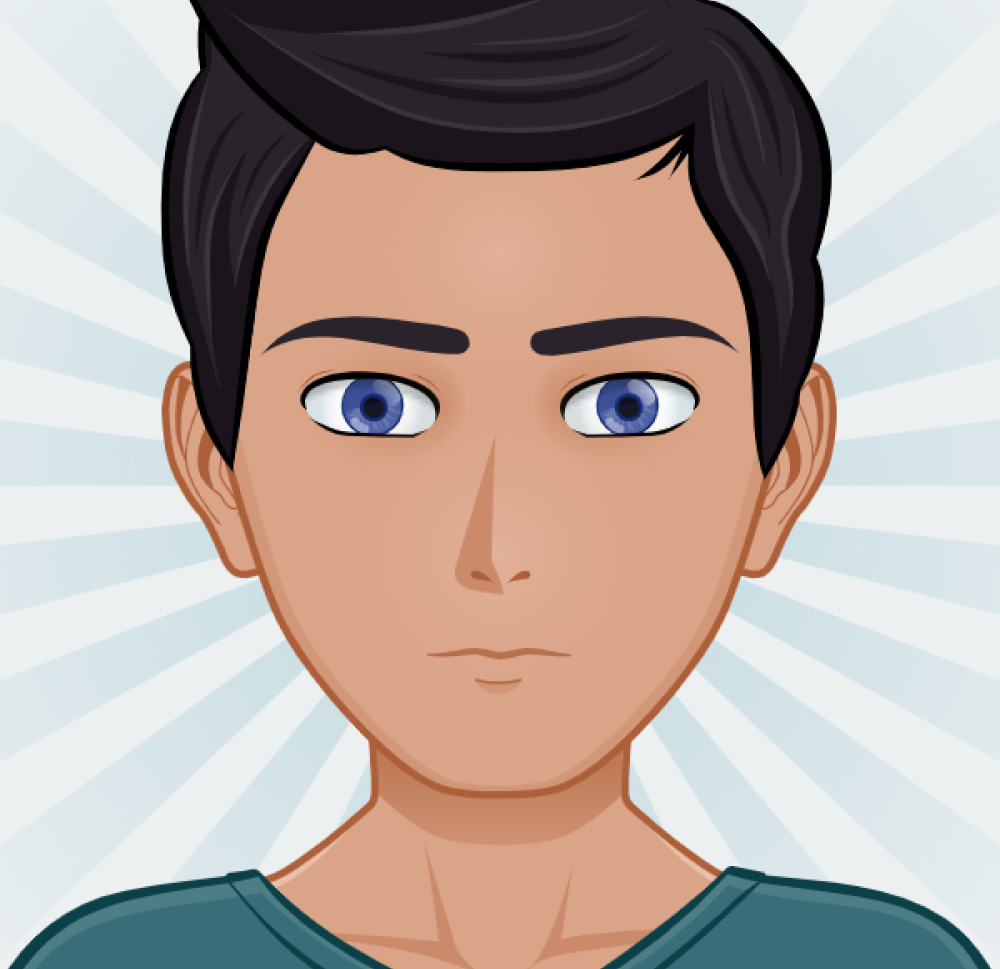
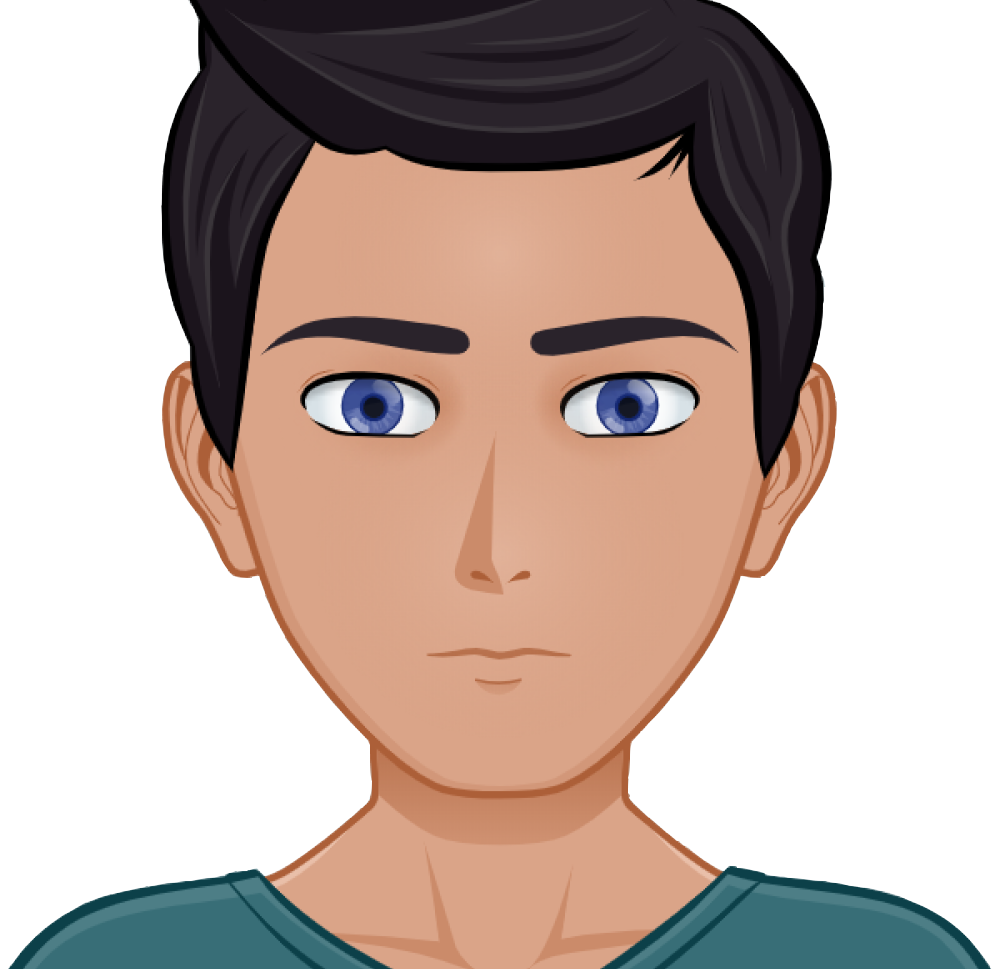
updated profile image and added contruction pages

diff --git a/pages/about.jsx b/pages/about.jsx
@@ -1,15 +1,14 @@
 // Style
-import style from '../../styles/underContruction.module.css'
+import style from '../styles/underContruction.module.css'
 
 
 // Assets
-import underContructionImage from '../../public/underConstructionImage.png'
+import underContructionImage from '../public/underConstructionImage.png'
 
 // Modules
 import Image from 'next/image'
 
-// Hook
-const index = () => {
+const about = () => {
   return (
     <div className={style.underContructionContainer} >
       <Image src={underContructionImage} height={400} objectFit='contain' />
@@ -17,4 +16,4 @@ const index = () => {
   )
 }
 
-export default index
+export default about

diff --git a/components/PortfolioHead.jsx b/components/PortfolioHead.jsx
@@ -22,7 +22,7 @@ const PortfolioHead = () => {
         </p>
       </div>
       <div className='image'>
-        <Image src={cartoonMe} height={600} width={600} quality={30} objectFit='contain' alt='fred as a cartoon'/>
+        <Image src={cartoonMe} height={500} quality={30} objectFit='contain' alt='fred as a cartoon'/>
       </div>
     </div>
   )

diff --git a/components/ProjectCard.jsx b/components/ProjectCard.jsx
@@ -42,7 +42,7 @@ const ProjectCard = ({projectInfo}) => {
         <button>
           <Link href={`/portfolio/${projectInfo.Name}`} aria-label='Project information'>
             <a>
-              More Info
+              Details
             </a>
           </Link>
         </button>

diff --git a/styles/underContruction.module.css b/styles/underContruction.module.css
@@ -1,0 +1,4 @@
+.underContructionContainer{
+  display: grid;
+  place-self: center;
+}
